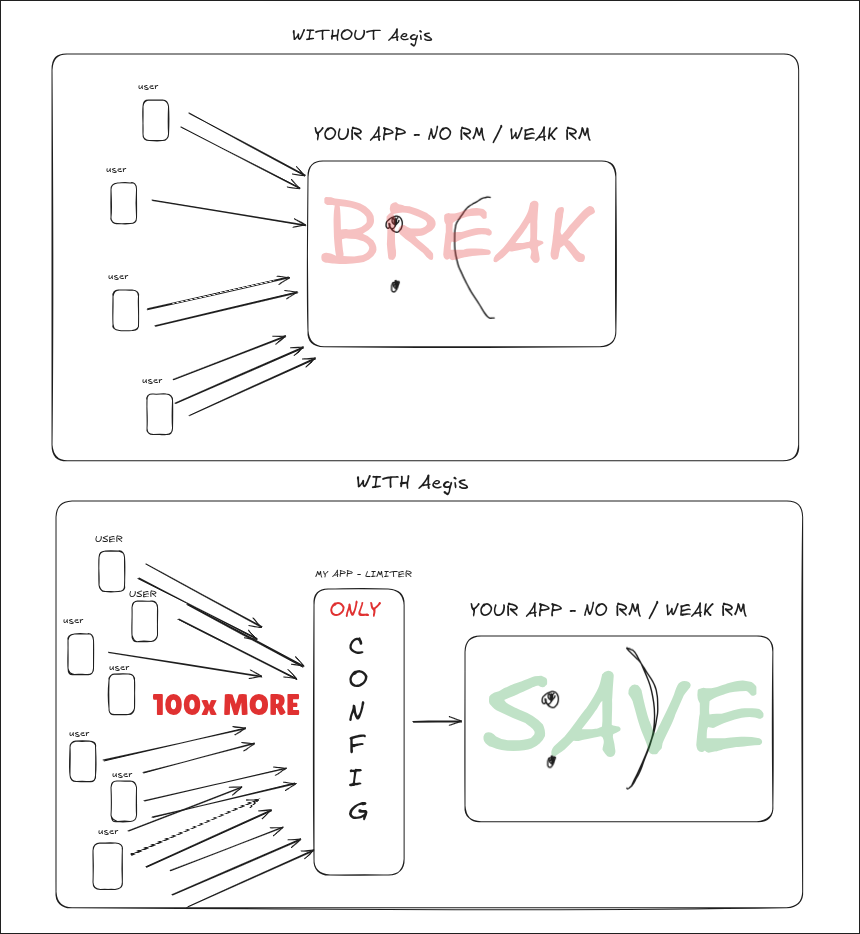
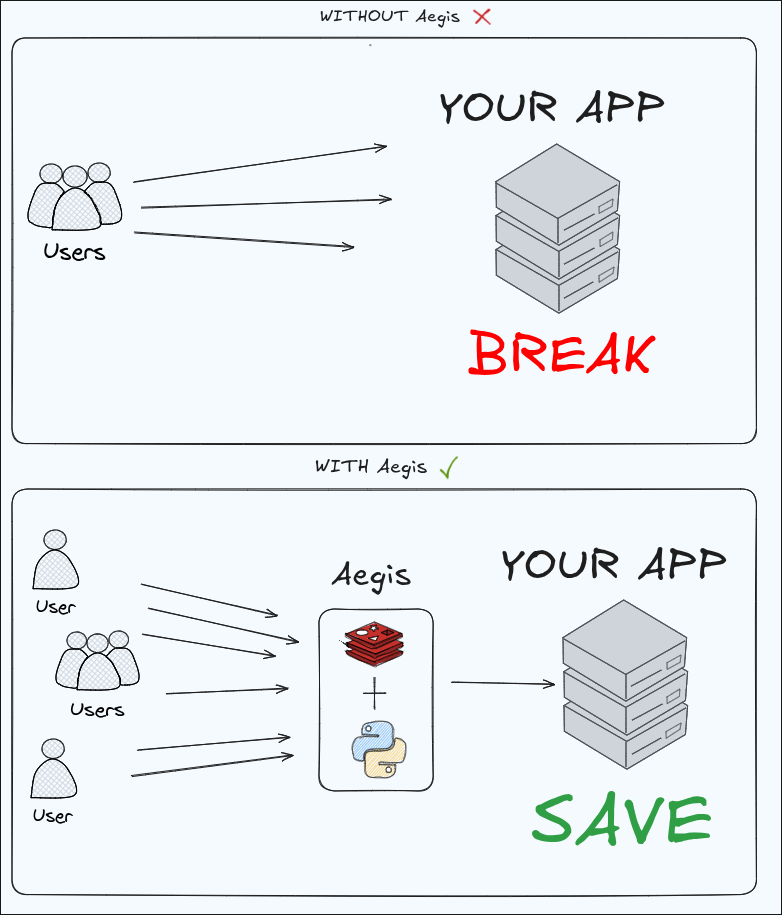
remake: README.md design

diff --git a/README.md b/README.md
@@ -1,4 +1,4 @@
-# Aegis
+# Aegis 👑
 
 ## Usage
 
@@ -11,7 +11,7 @@ sudo docker compose up --build
 
 ## Warning
 
-- Aegis uses ports 6379 and 6378 to operate. If you need to change these, specify them in docker-compose.
+- Aegis uses ports 6379 and 6378 to operate. If you need to change these, specify them in docker-compose. You may also have problems deploying to a local network due to Docker, use your local network address
 
 ## Architecture
 
